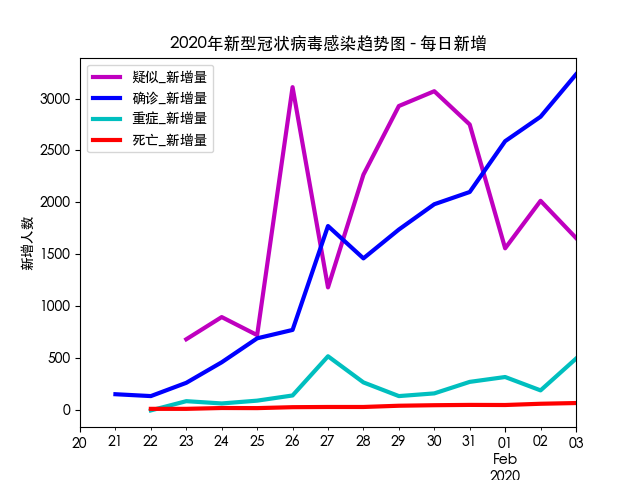
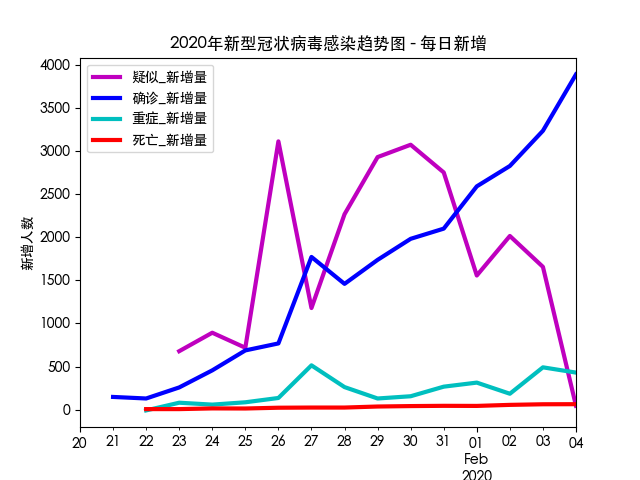
update for Feb 4 data

diff --git a/README.md b/README.md
@@ -5,7 +5,7 @@
 
 这是根据卫建委发布的官方数据制作的每日疫情发展趋势图。每日830~930之间根据卫建委发布的最新疫情通报更新。
 
-- 更新时间: **`08:30, 02-03`**
+- 更新时间: **`08:30, 02-04`**
 - [网页地址](https://zire.github.io/pandemic2020/)
 - [Github Repo地址](https://github.com/zire/pandemic2020)
 - 数据来源：[中华人民共和国国家卫生健康委员会卫生应急办公室](http://www.nhc.gov.cn/)
@@ -33,6 +33,7 @@
 
 |    |   日期 |    接触 |    观察 |   疑似 |   确诊 |   重症 |   死亡 |   治愈 |
 |---:|-------:|--------:|--------:|-------:|-------:|-------:|-------:|-------:|
+| 15 |  02/04 | 252,154 | 185,555 | 23,260 | 24,324 |  3,219 |    490 |    892 |
 | 14 |  02/03 | 221,015 | 171,329 | 23,214 | 20,438 |  2,788 |    425 |    632 |
 | 13 |  02/02 | 189,583 | 152,700 | 21,558 | 17,205 |  2,296 |    361 |    475 |
 | 12 |  02/01 | 163,844 | 137,594 | 19,544 | 14,380 |  2,110 |    304 |    328 |
@@ -53,6 +54,7 @@
 
 |    |   日期 |   接触 |   观察 |   疑似 |   确诊 |   重症 |   死亡 |   治愈 |
 |---:|-------:|-------:|-------:|-------:|-------:|-------:|-------:|-------:|
+| 15 |  02/04 |  14.1% |   8.3% |   0.2% |  19.0% |  15.5% |  15.3% |  41.1% |
 | 14 |  02/03 |  16.6% |  12.2% |   7.7% |  18.8% |  21.4% |  17.7% |  33.1% |
 | 13 |  02/02 |  15.7% |  11.0% |  10.3% |  19.6% |   8.8% |  18.8% |  44.8% |
 | 12 |  02/01 |  19.6% |  16.1% |   8.7% |  22.0% |  17.5% |  17.4% |  35.0% |
